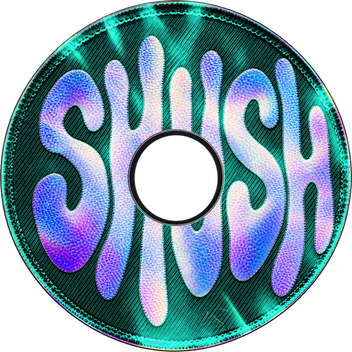
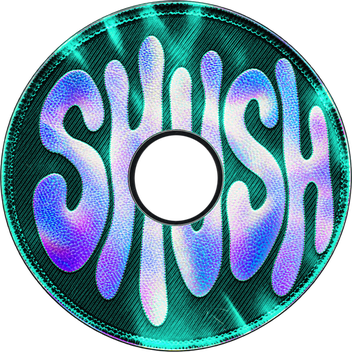
fix(#127): theme the UI by vault colour, clean disc tinting, onboarding disc colour (#135)

diff --git a/src/src/app.css b/src/src/app.css
@@ -27,6 +27,59 @@
   --font-display: "Syne Variable", "Segoe UI Variable Display", "Segoe UI", sans-serif;
 }
 
+/* Vault theming: the accent follows the active vault's disc colour. The tokens
+   above are the crimson default; App.svelte sets data-vault-color on its root and
+   these override the same tokens, so every crimson/ruby utility re-tints. */
+:root {
+  --accent-rgb: 225 29 72;
+  --accent-top: #f0284f;
+  --accent-bottom: #c8133c;
+  --accent-ink: #fff;
+}
+[data-vault-color="amber"] {
+  --color-crimson: #f59e0b;
+  --color-ruby: #fbbf24;
+  --color-crimson-deep: #78450a;
+  --accent-rgb: 245 158 11;
+  --accent-top: #fbad24;
+  --accent-bottom: #d98506;
+  --accent-ink: #1a1203;
+}
+[data-vault-color="teal"] {
+  --color-crimson: #14b8a6;
+  --color-ruby: #2dd4bf;
+  --color-crimson-deep: #0b5d54;
+  --accent-rgb: 20 184 166;
+  --accent-top: #22c7b4;
+  --accent-bottom: #0f9d8e;
+  --accent-ink: #041a17;
+}
+[data-vault-color="cobalt"] {
+  --color-crimson: #3b82f6;
+  --color-ruby: #60a5fa;
+  --color-crimson-deep: #1e3a8a;
+  --accent-rgb: 59 130 246;
+  --accent-top: #5b95f8;
+  --accent-bottom: #2f6fe0;
+}
+[data-vault-color="violet"] {
+  --color-crimson: #a855f7;
+  --color-ruby: #c084fc;
+  --color-crimson-deep: #4c1d95;
+  --accent-rgb: 168 85 247;
+  --accent-top: #b66cf9;
+  --accent-bottom: #9333ea;
+}
+[data-vault-color="chrome"] {
+  --color-crimson: #d4d4d8;
+  --color-ruby: #e4e4e7;
+  --color-crimson-deep: #52525b;
+  --accent-rgb: 212 212 216;
+  --accent-top: #e8e8ec;
+  --accent-bottom: #a1a1aa;
+  --accent-ink: #18181b;
+}
+
 html,
 body,
 #app {
@@ -61,7 +114,7 @@ textarea {
 }
 
 ::selection {
-  background: rgb(225 29 72 / 0.45);
+  background: rgb(var(--accent-rgb) / 0.45);
   color: #fff;
 }
 
@@ -100,7 +153,7 @@ textarea {
     inset: -1px -1px auto;
     height: 1px;
     border-radius: inherit;
-    background: linear-gradient(90deg, transparent 6%, rgb(192 132 252 / 0.55) 30%, rgb(244 63 94 / 0.45) 62%, transparent 94%);
+    background: linear-gradient(90deg, transparent 6%, rgb(192 132 252 / 0.55) 30%, rgb(var(--accent-rgb) / 0.45) 62%, transparent 94%);
     pointer-events: none;
   }
 
@@ -115,13 +168,13 @@ textarea {
     font-stretch: 87.5%;
     font-weight: 600;
     letter-spacing: 0.06em;
-    color: #fff;
-    background: linear-gradient(180deg, #f0284f, var(--color-crimson) 55%, #c8133c);
+    color: var(--accent-ink);
+    background: linear-gradient(180deg, var(--accent-top), var(--color-crimson) 55%, var(--accent-bottom));
     box-shadow:
       inset 0 1px 0 rgb(255 255 255 / 0.28),
       inset 0 -1px 0 rgb(0 0 0 / 0.25),
       0 2px 0 var(--color-crimson-deep),
-      0 6px 18px -6px rgb(225 29 72 / 0.55);
+      0 6px 18px -6px rgb(var(--accent-rgb) / 0.55);
     transition:
       transform 60ms ease-out,
       box-shadow 60ms ease-out,
@@ -135,7 +188,7 @@ textarea {
     box-shadow:
       inset 0 1px 0 rgb(255 255 255 / 0.18),
       0 0 0 var(--color-crimson-deep),
-      0 2px 8px -4px rgb(225 29 72 / 0.6);
+      0 2px 8px -4px rgb(var(--accent-rgb) / 0.6);
   }
   .key:disabled {
     cursor: not-allowed;
@@ -209,10 +262,10 @@ textarea {
   }
   .well:focus-within,
   .well:focus {
-    border-color: rgb(244 63 94 / 0.6);
+    border-color: rgb(var(--accent-rgb) / 0.6);
     box-shadow:
       inset 0 1px 2px rgb(0 0 0 / 0.6),
-      0 0 0 3px rgb(225 29 72 / 0.14);
+      0 0 0 3px rgb(var(--accent-rgb) / 0.14);
     outline: none;
   }
   .well[aria-invalid="true"],
@@ -236,7 +289,7 @@ textarea {
   .rail-on {
     box-shadow:
       inset 3px 0 0 var(--color-crimson),
-      inset 14px 0 18px -14px rgb(225 29 72 / 0.55);
+      inset 14px 0 18px -14px rgb(var(--accent-rgb) / 0.55);
   }
 
   /* Hazard stripe for armed destructive actions. */

diff --git a/src/src/App.svelte b/src/src/App.svelte
@@ -46,6 +46,10 @@
     },
   );
 
+  // Accent theme: the vault being shown (unlocked, being created, or on the shelf).
+  let unlockedColor = $state<string | null>(null);
+  const themeColor = $derived(summary ? unlockedColor : (targetStatus?.color ?? status?.color ?? null));
+
   async function refresh() {
     status = await vaultStatus();
   }
@@ -86,9 +90,9 @@
   });
 </script>
 
-<div class="flex h-full flex-col">
+<div class="flex h-full flex-col" data-vault-color={themeColor ?? "crimson"}>
   {#if summary && onboarding}
-    <OnboardingScreen ondone={() => (onboarding = false)} />
+    <OnboardingScreen color={unlockedColor ?? "crimson"} ondone={() => (onboarding = false)} />
   {:else if summary}
     <Dashboard {summary} hotkey={info?.spotlight_hotkey ?? null} onlock={doLock} oncopied={(secs) => (clipboardUntil = Date.now() + secs * 1000)} />
   {:else if newTarget && targetStatus}
@@ -98,6 +102,7 @@
       target={newTarget}
       oncancel={() => (newTarget = null)}
       oncreated={(s) => {
+        unlockedColor = newTarget?.color ?? "crimson";
         newTarget = null;
         summary = s;
         onboarding = true;
@@ -109,6 +114,7 @@
       vault={status}
       {info}
       oncreated={(s) => {
+        unlockedColor = status?.color ?? "crimson";
         summary = s;
         onboarding = true;
       }}
@@ -120,6 +126,7 @@
         vault={status}
         {autoLockReason}
         onunlocked={(s) => {
+          unlockedColor = status?.color ?? "crimson";
           summary = s;
           autoLockReason = null;
         }}

diff --git a/src/src/lib/components/OnboardingScreen.svelte b/src/src/lib/components/OnboardingScreen.svelte
@@ -7,7 +7,7 @@
 
   // First-run "bring your passwords" step (spec §10.1). Detection only checks
   // that a browser's profile folder exists; its password store is never read (#17).
-  let { ondone }: { ondone: () => void } = $props();
+  let { ondone, color = "crimson" }: { ondone: () => void; color?: string } = $props();
 
   let browsers = $state.raw<Browser[] | null>(null);
   let copied = $state<string | null>(null);
@@ -28,7 +28,7 @@
   <div class="my-auto flex w-full max-w-[560px] flex-col gap-5">
     <header class="flex items-center gap-4">
       <div class="shrink-0 [@media(max-height:620px)]:hidden">
-        <Spindle size={64} />
+        <Spindle size={64} {color} />
       </div>
       <div>
         <h1 class="font-display text-[26px] leading-tight font-bold tracking-[-0.01em] text-zinc-50">Bring your passwords</h1>

diff --git a/src/scripts/tint-discs.py b/src/scripts/tint-discs.py
@@ -39,8 +39,8 @@ def main():
         h, s, v = colorsys.rgb_to_hsv(r / 255, g / 255, b / 255)
         hd = h * 360
         signed = hd - 360 if hd > 180 else hd  # -180..180, red at 0
-        hue_w = clamp(1 - (abs(signed) - 22) / 18)  # full within ±22°, gone by ±40°
-        sat_w = clamp((s - 0.25) / 0.25)
+        hue_w = clamp(1 - (abs(signed) - 45) / 20)  # full within +-45 deg, gone by +-65 deg
+        sat_w = clamp((s - 0.06) / 0.10)  # shaded stitching is low-saturation; keep near-white lettering
         pre.append((signed, s, v, hue_w * sat_w))
 
     for name, (hue, sat_k, val_k) in TINTS.items():
@@ -49,7 +49,7 @@ def main():
             if w <= 0:
                 out.append((r, g, b, a))
                 continue
-            nh = ((hue + signed) % 360) / 360
+            nh = ((hue + signed * 0.4) % 360) / 360  # compress hue spread so amber never wraps back to red
             nr, ng, nb = colorsys.hsv_to_rgb(nh, clamp(s * sat_k), clamp(v * val_k))
             out.append(
                 (
